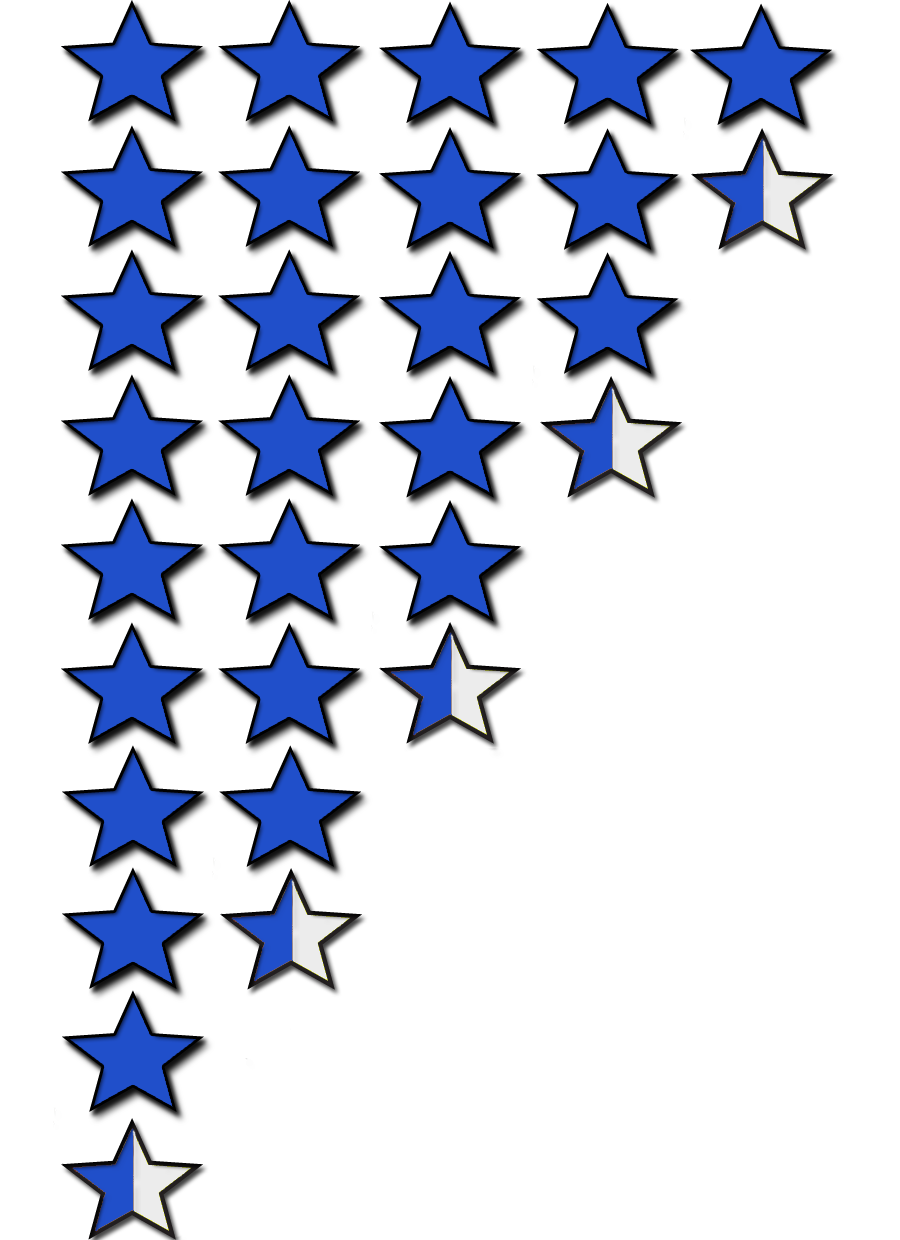
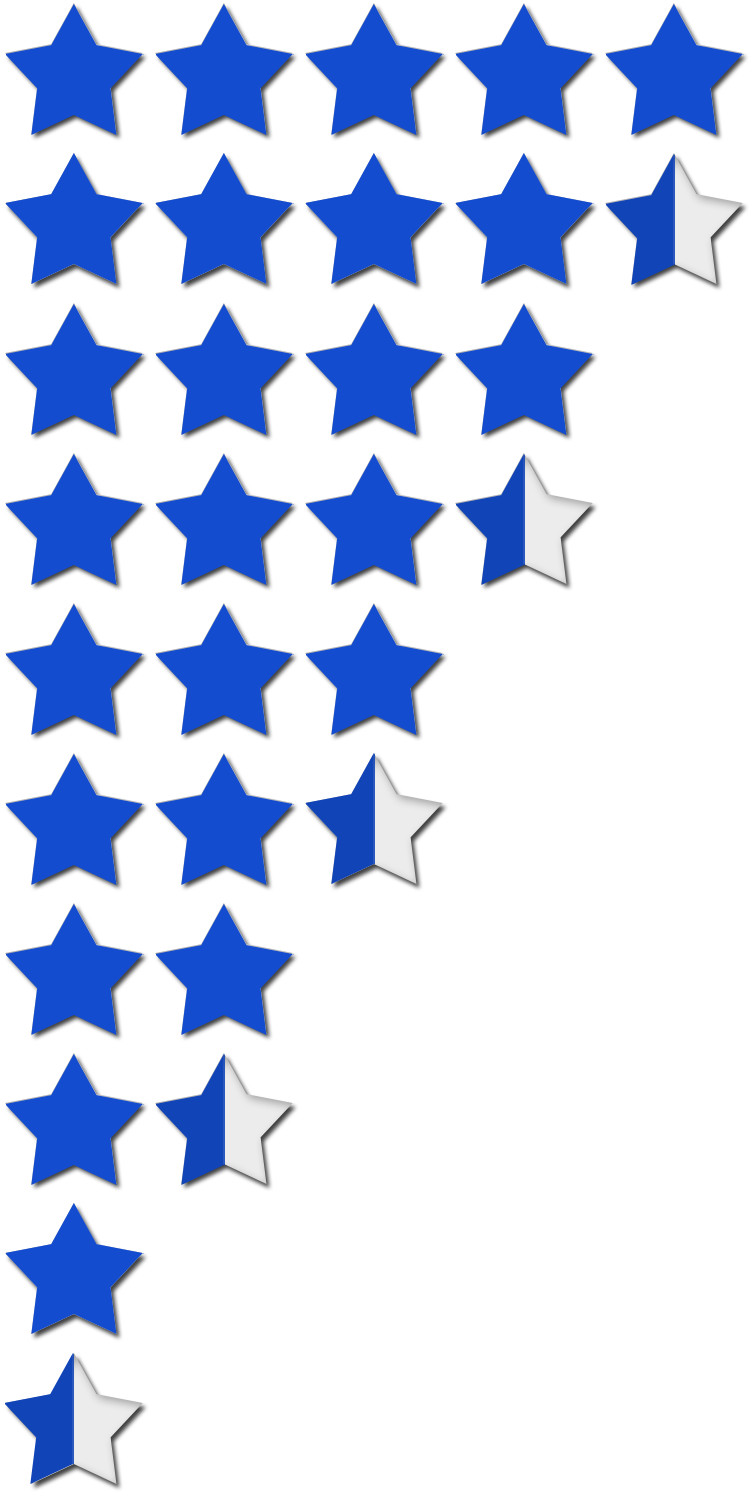
finalized stars and changed the font of program stats

Changed region(s): [[0.0, 0.0, 1.0, 1.0]]

diff --git a/app/assets/stylesheets/application.css.scss b/app/assets/stylesheets/application.css.scss
@@ -18,6 +18,7 @@
 
 $basic-font-family: 'Lato','Helvetica Neue', Helvetica, Arial, sans-serif;
 $theme-color: green;
+$program-metrics-line-height: 2.3;
 
 /* Sass mixins */
 
@@ -106,11 +107,17 @@ body {
 	@include rounded-corners(7px);
 	border: 1px solid #DBDBDB;
 	width: 60%;
+	font-weight: bold;
+	color: #535353;
+	li {
+		line-height: $program-metrics-line-height;
+	}
+	.program_general_stats li{
+		line-height: $program-metrics-line-height * 1.7;
+	}
 }
 
-.program_metrics li {
-	line-height: 2.0;
-}
+
 
 .program_general_stats {
 	float: left;
@@ -123,39 +130,43 @@ body {
 .program_rating_stats {
 	float: right;
 	padding-left: -10px;
-
+	#overall_rating {
+		font-size: 20px;
+		font-weight: bold;
+		color: #535353;
+	}
 	.star_rating_yellow {
-		background-position: 50% 12%;
+		background-position: 0px 0px;
 		background-repeat: no-repeat;
 		width: 240px;
-		height: 30px;
+		height: 42px;
 		background-size: 94%;
 		background-image: url("../../assets/stars-yellow.png");
 	}
 	.star_rating_blue {
-		background-position: 50% 12%;
+		background-position: 0px 0px;
 		background-repeat: no-repeat;
 		width: 240px;
-		height: 30px;
-		background-size: 70%;
+		height: 24px;
+		background-size: 55%;
 		background-image: url("../../assets/stars-blue.png");
 
 	}
 	.star_rating_green {
-		background-position: 50% 12%;
+		background-position: 0px 0px;
 		background-repeat: no-repeat;
 		width: 240px;
-		height: 28px;
-		background-size: 70%;
+		height: 24px;
+		background-size: 55%;
 		background-image: url("../../assets/stars-green.png");
 
 	}
 	.star_rating_red {
-		background-position: 50% 12%;
+		background-position: 0px 0px;
 		background-repeat: no-repeat;
 		width: 240px;
-		height: 30px;
-		background-size: 70%;
+		height: 24px;
+		background-size: 55%;
 		background-image: url("../../assets/stars-red.png");
 
 	}
